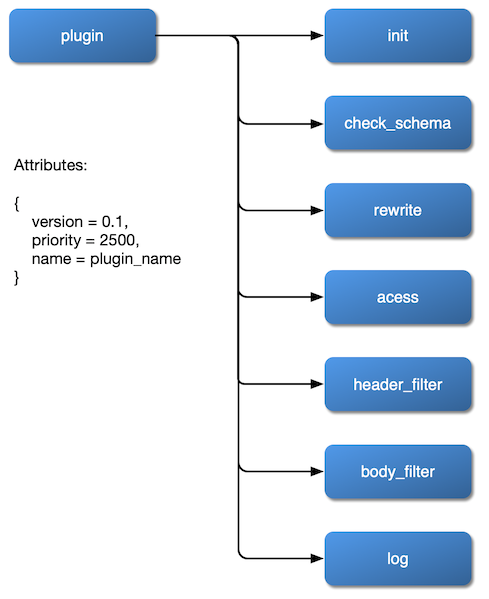
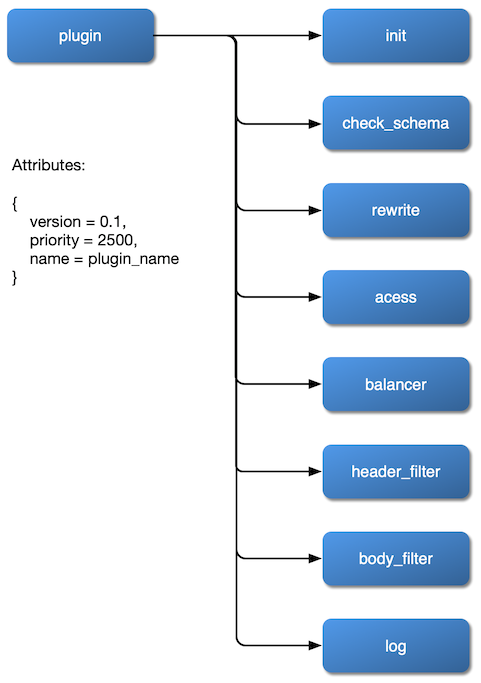
doc: supported balancer phase in plugin. (#467)
* doc: supported balancer phase in plugin.

diff --git a/README.md b/README.md
@@ -52,7 +52,7 @@ For more detailed information, see the [White Paper](https://www.iresty.com/down
 - **CLI**: start\stop\reload APISIX through the command line.
 - **REST API**
 - **Proxy Websocket**
-- **IPv6**: allow to use IPv6 to match route.
+- **IPv6**: Use IPv6 to match route.
 - **Clustering**: APISIX nodes are stateless, creates clustering of the configuration center, please refer to [etcd Clustering Guide](https://github.com/etcd-io/etcd/blob/master/Documentation/v2/clustering.md).
 - **Scalability**: plug-in mechanism is easy to extend.
 - **High performance**: The single-core QPS reaches 24k with an average delay of less than 0.6 milliseconds.
